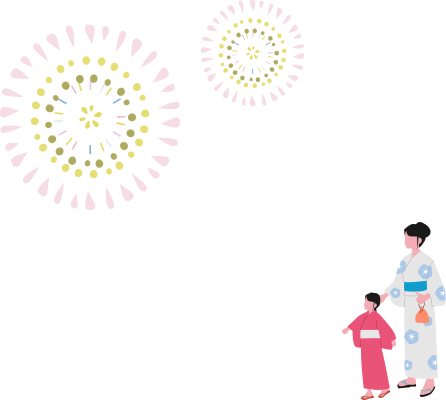
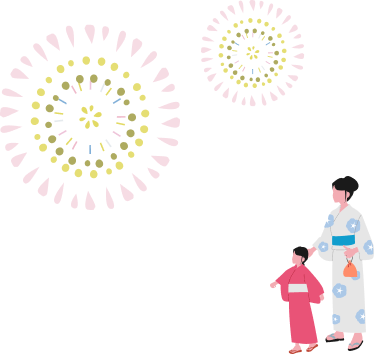
4/1

diff --git a/kaikounosato_site/css/style.css b/kaikounosato_site/css/style.css
@@ -815,16 +815,7 @@ footer::before {
   padding: 16px;
   color: #fff;
 }
-.droon {
-  left: 9%;
-  top: -2%;
-  width: 7%;
-}
-.cycle {
-  left: 1%;
-  top: 1%;
-  width: 7%;
-}
+
 .about-wrapper {
   flex-direction: column-reverse;
 }
@@ -835,6 +826,7 @@ footer::before {
   width: 95%;
   margin: 0 auto;
 }
+
 .about-img {
   width: 90%;
   margin:10px auto 10px;
@@ -846,6 +838,32 @@ footer::before {
 .Whatplace-corporate-sec {
   flex-direction: column;
   flex-wrap: nowrap;
+}
+.droon {
+  left: 9%;
+  top: -2%;
+  width: 7%;
+}
+.cycle {
+  left: 1%;
+  top: 1%;
+  width: 7%;
+}
+.sleep {
+  top: -3%;
+  right: 15%;
+  width: 7%;
+}
+.camp {
+  width: 10%;
+  width: 22%;
+  right: 9%;
+  bottom: 38%;
+}
+.hanabi {
+  right: 1%;
+  width: 24%;
+  bottom: 40%;
 }
 .access-sec{
   margin: 60px auto 30px;
